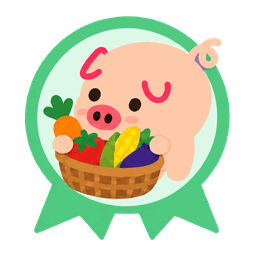
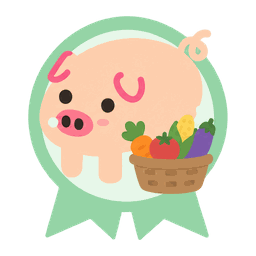
fix(art): 按既有正常小猪站姿重做六枚进阶徽章

diff --git a/packages/pet-core/src/data/art-revisions.js b/packages/pet-core/src/data/art-revisions.js
@@ -7,10 +7,10 @@ export const PIG_ART_REVISIONS = Object.freeze({
   "badge-pig-blindbox-ten": "0c2d076bfd61",
   "badge-pig-clean-ten": "6003eb8595a0",
   "badge-pig-devil": "89cb8d3e629f",
-  "badge-pig-farm-fifteen": "d88e56deb8d9",
+  "badge-pig-farm-fifteen": "eeac7c4729f5",
   "badge-pig-farm-first": "5d1652cb0fe0",
   "badge-pig-farm-five": "deb83c643582",
-  "badge-pig-farm-hundred": "a422ff1a1356",
+  "badge-pig-farm-hundred": "de2e97324258",
   "badge-pig-farm-ten": "0149eff14413",
   "badge-pig-first-class": "12a7524937d8",
   "badge-pig-first-fish": "b61fec5ff7ff",
@@ -18,8 +18,8 @@ export const PIG_ART_REVISIONS = Object.freeze({
   "badge-pig-first-meal": "e5fbc9564601",
   "badge-pig-first-trip": "f8ac4b6899d0",
   "badge-pig-fish-five": "5c35eb850433",
-  "badge-pig-fish-hundred": "7f144268212c",
-  "badge-pig-fish-twenty": "8d5083e971f8",
+  "badge-pig-fish-hundred": "dc81934f7d66",
+  "badge-pig-fish-twenty": "66f23333664a",
   "badge-pig-gacha-first": "a57d94f99dd9",
   "badge-pig-gacha-gold": "4996ffc1006d",
   "badge-pig-gacha-machines": "77f0da6b8e33",
@@ -30,10 +30,10 @@ export const PIG_ART_REVISIONS = Object.freeze({
   "badge-pig-mine-deep": "d94d942494c1",
   "badge-pig-mine-first": "c0ff5e419ad4",
   "badge-pig-mine-fossils": "c5a8a6273d0b",
-  "badge-pig-mine-twenty": "45ecfcd23c9a",
+  "badge-pig-mine-twenty": "a78489d4182f",
   "badge-pig-pet-hundred": "d44a2084eeba",
   "badge-pig-play-twenty": "d1bcbd208fe4",
-  "badge-pig-souvenirs-ten": "dcaa94dcb678",
+  "badge-pig-souvenirs-ten": "0a917947ee38",
   "badge-pig-souvenirs-three": "7ea9125dab52",
   "badge-pig-trips-ten": "7a993658b297",
   "career-astronaut": "9c4f6a1d855d",

diff --git a/client.js b/client.js
@@ -3437,10 +3437,10 @@
     "badge-pig-blindbox-ten": "0c2d076bfd61",
     "badge-pig-clean-ten": "6003eb8595a0",
     "badge-pig-devil": "89cb8d3e629f",
-    "badge-pig-farm-fifteen": "d88e56deb8d9",
+    "badge-pig-farm-fifteen": "eeac7c4729f5",
     "badge-pig-farm-first": "5d1652cb0fe0",
     "badge-pig-farm-five": "deb83c643582",
-    "badge-pig-farm-hundred": "a422ff1a1356",
+    "badge-pig-farm-hundred": "de2e97324258",
     "badge-pig-farm-ten": "0149eff14413",
     "badge-pig-first-class": "12a7524937d8",
     "badge-pig-first-fish": "b61fec5ff7ff",
@@ -3448,8 +3448,8 @@
     "badge-pig-first-meal": "e5fbc9564601",
     "badge-pig-first-trip": "f8ac4b6899d0",
     "badge-pig-fish-five": "5c35eb850433",
-    "badge-pig-fish-hundred": "7f144268212c",
-    "badge-pig-fish-twenty": "8d5083e971f8",
+    "badge-pig-fish-hundred": "dc81934f7d66",
+    "badge-pig-fish-twenty": "66f23333664a",
     "badge-pig-gacha-first": "a57d94f99dd9",
     "badge-pig-gacha-gold": "4996ffc1006d",
     "badge-pig-gacha-machines": "77f0da6b8e33",
@@ -3460,10 +3460,10 @@
     "badge-pig-mine-deep": "d94d942494c1",
     "badge-pig-mine-first": "c0ff5e419ad4",
     "badge-pig-mine-fossils": "c5a8a6273d0b",
-    "badge-pig-mine-twenty": "45ecfcd23c9a",
+    "badge-pig-mine-twenty": "a78489d4182f",
     "badge-pig-pet-hundred": "d44a2084eeba",
     "badge-pig-play-twenty": "d1bcbd208fe4",
-    "badge-pig-souvenirs-ten": "dcaa94dcb678",
+    "badge-pig-souvenirs-ten": "0a917947ee38",
     "badge-pig-souvenirs-three": "7ea9125dab52",
     "badge-pig-trips-ten": "7a993658b297",
     "career-astronaut": "9c4f6a1d855d",

diff --git a/docs/art-prompts/achievements-phase-two.md b/docs/art-prompts/achievements-phase-two.md
@@ -1,36 +1,21 @@
 # 成就第二期徽章来源与导出
 
-内置 image_gen 生成。以项目 assets/pigs/badges/badge-pig-fish-five.png 为角色与画风参考。保持原有圆润横向身体和配色，两只前蹄微抬与书、鱼篓、菜筐和工具接触；后脚沿用原侧身站姿。只调整局部肢体与道具接触，不采用直立长身或道具单独摆放的试稿。非钓鱼主题移除额头鱼饰。Noto Emoji 衍生署名沿用 THIRD-PARTY.md 和 LICENSE-noto-emoji.txt。
+2026-11-02 按用户指定的现有 badge-pig-farm-ten.png 正常小猪徽章重做。保留正常横向身体、头部、耳朵、尾巴和站姿，仅改变六项成就的配色及身旁道具。使用内置 image_gen；此前的拟人姿势稿已替换。
 
-母版 docs/screenshots/achievements-phase-two-badges.png 为1536×1024、3列×2行透明PNG。每格512×512切片后调用 tools/prepare-pig-art.py 的 prepare 导出256×256透明PNG；只做切片、透明噪声处理、等比缩放和调色板压缩，不以程序重画角色。母版/切片/成品哈希、坐标、大小和真实alpha>16边界见 assets/pigs/manifest.json。
+角色与风格参考：assets/pigs/badges/badge-pig-farm-ten.png。Noto Emoji衍生署名沿用THIRD-PARTY.md及LICENSE-noto-emoji.txt。
 
-## 初稿逐字提示词
+母版 docs/screenshots/achievements-phase-two-badges.png 为1536×1024、3列×2行透明PNG。每格512×512切片后调用 tools/prepare-pig-art.py 的 prepare 导出256×256透明PNG。只做切片、透明噪声处理、等比缩放和调色板压缩，不以程序改画角色。母版/切片/成品哈希、切片坐标、大小和真实alpha>16边界见assets/pigs/manifest.json。
 
-```text
-Use case: stylized-concept. Asset type: a single concept review board containing SIX distinct achievement badge designs for the dsh-piggy game, arranged in a precise 3 columns by 2 rows regular grid, no overlaps, generous transparent margins. Reference image is STYLE and CHARACTER IDENTITY reference only, not an edit target. Match its pink pig, tiny dark eyes, oval snout, flat soft pastel fills and minimal shapes; avoid gradients, 3D, lighting, realistic texture and black outlines. The pig is the largest motif in every badge. Each badge has a circular medallion and two short ribbons. Do not draw any text, letters, numbers, logos or watermark.
-Top row left: fish naturalist, lavender medallion, pink pig with a tiny open field guide and two small blue fish. Top row middle: a hundred catches, sky blue medallion, pink pig with a small wooden fishing rod and a fish basket, exactly one pig. Top row right: travel souvenir collector, peach medallion, pink pig with a little mint travel bag and seashell.
-Bottom row left: a hundred harvests, warm yellow medallion, pink pig holding a small crate of carrots. Bottom row middle: crop variety collector, mint medallion, pink pig and a small basket containing carrot, tomato, corn and eggplant in distinct colors. Bottom row right: deepest mine explorer, slate blue medallion, pink pig wearing a miner helmet, holding a small pickaxe beside a violet crystal.
-Keep the same pig identity, medium, composition scale and ribbon proportions throughout. Actual transparent background, transparent spaces between badges. All six badges whole and fully visible. This is ONE concept sheet for review, not final individual game assets.
-```
-
-## 非钓鱼头饰调整
+## 最终逐字提示词
 
 ```text
-Use case: precise-object-edit. Edit the attached SIX-badge review sheet. Remove ONLY the small PURPLE FISH lying across the forehead of the pig in these FOUR badges: top-right travel/souvenir badge, bottom-left carrot harvest badge, bottom-middle vegetable basket badge, bottom-right miner badge (fish partly below helmet). Seamlessly restore the pig forehead or helmet underneath. Preserve the actual ears, pink curled ear strokes, tail and all facial features. The top-left and top-middle fishing badges MUST remain entirely unchanged, including their purple forehead fish. Keep ALL other image content, positions, proportions, badge circles, ribbons, pigs, accessories, colors, soft rendering and background exactly as the input. Do not add text, decorations, new objects or symbols. Preserve existing alpha transparency exactly. It is a surgical removal of four fish only.
-```
-
-## 最终局部前蹄与道具接触调整
-
-```text
-Use case: precise-object-edit. Make a VERY LOCAL correction to the six-badge sheet. This original image's faces, colors, accessories, badge circles, ribbons, overall silhouette, body shape and composition are approved. KEEP THEM UNCHANGED.
-The pig body must remain the original low rounded HORIZONTAL side-facing body with snout at left and rump/tail at right. Do not elongate it vertically, do not add a second torso, do not rotate it, do not add a second tail. No human upright pose. No red shoes.
-Change ONLY the small foreleg shapes around the thematic accessories:
-- Book pig: the two FRONT hooves should peek out at the two book edges as short subtly lifted forelegs attached to the chest at the left/front of the existing horizontal body. Remove the misplaced dangling front-leg stump below the book. Preserve the existing rear feet at right/back in their normal side-view stance.
-- Fishing pig: one small forehoof touches the rod handle, the other rests lightly on the fish basket rim; raised only a little. Remove misplaced dangling front-leg shapes below those props. Keep rump and normal rear legs unchanged.
-- Travel pig: one front hoof lightly rests on the travel bag and the other near the seashell, a small natural interaction, body unchanged.
-- Carrot crate pig: two tiny forehooves rest on the crate's left/right top sides, not human hands. Remove any forelegs dangling below the crate; preserve the rear feet behind/right of it.
-- Vegetable basket pig: two short subtly raised front hooves rest on the basket rim, body and rear legs unchanged.
-- Miner pig: one short front hoof contacts the pickaxe HANDLE, the other lightly rests on the crystal. Keep the handle visibly WOODEN and distinct from peach limbs. Preserve the two rear legs and the original body.
-Think of a normally horizontal four-legged pig lifting ONLY its two front feet slightly to engage with an item, while the back feet remain normally standing. NOT rearing its whole body, NOT sitting like a human, NOT four planted legs with a disconnected prop pasted nearby. No extra limbs. The two front hooves can be partly hidden by props; do not make them large.
-Do not add fish on the non-fishing pigs. Do not add any head ornament. Keep all other pixels/design elements as close as possible to the original. Real transparent background outside badges, equal 3 by 2 grid.
+Create ONE production sprite sheet, exactly 3 columns by 2 rows, of six simple flat achievement badges based DIRECTLY on the attached badge. Treat the attached pig as LOCKED approved artwork: keep its exact original normal horizontal side-view body, head position, ears, eyes, snout, three visible short standing legs (the fourth is occluded), leg placement, curled tail, proportions and peach/pink colors. Reuse that same normal pig in every badge. Keep the same simple circular medallion and two short ribbons. Solid flat fills only, no gradients, no lighting, no shading, no texture, no outlines. Pig remains dominant. Small props sit BESIDE the pig at lower right as in the reference fruit basket. Do not lift any legs, do not make arms or hands, do not make it hold anything, do not alter or reinterpret its anatomy. No forehead ornaments.
+Only change the badge color and small side props for each achievement:
+Top-left: lavender badge, a small open fish field guide and one small blue fish at lower right.
+Top-middle: pale blue badge, a small fish basket containing two blue fish and a short fishing rod leaning at lower right.
+Top-right: pale peach badge, a small mint suitcase and seashell at lower right.
+Bottom-left: pale yellow badge, a small wooden crate with carrots at lower right.
+Bottom-middle: mint green badge, a small basket of carrot, tomato, corn and eggplant at lower right.
+Bottom-right: slate blue badge, small pickaxe and one purple crystal at lower right. No helmet is needed; keep the pig identical.
+The normal pig itself must look exactly like the reference in all six. These are small 256px game icons; use few clean simple shapes for props matching the reference. No text or numerals. Whole badge silhouettes fully visible, equal size, centered in equal square cells with ample transparent margins. Fully transparent alpha=0 outside badges and in gutters, no glow or shadow.
 ```

diff --git a/assets/pigs/PROVENANCE.md b/assets/pigs/PROVENANCE.md
@@ -2,7 +2,7 @@
 
 ## 成就第二期（2026-11-01）
 
-新增六枚独立徽章，未替换原有图案。内置 image_gen 生成，按用户反馈修正非钓鱼额头装饰和肢体；从修正版母版切片，沿用 tools/prepare-pig-art.py 的 prepare 导出256×256透明PNG。逐字提示词、采用轮次和导出方法见 docs/art-prompts/achievements-phase-two.md；源图/成品哈希、切片坐标和真实透明边界见 manifest.json。项目现有Noto Emoji衍生署名继续适用。
+新增六枚独立徽章，未替换原有图案。2026-11-02 用内置 image_gen 沿用 badge-pig-farm-ten.png 的正常小猪身体与四肢站姿，变更徽章颜色和身旁道具；从新母版切片，沿用 tools/prepare-pig-art.py 的 prepare 导出256×256透明PNG。逐字提示词、采用轮次和导出方法见 docs/art-prompts/achievements-phase-two.md；源图/成品哈希、切片坐标和真实透明边界见 manifest.json。项目现有Noto Emoji衍生署名继续适用。
 
 2026-10-13 由旧版 1:1 重画，当前只有一套无描边平涂，原有181张，另追加下文两张用户审定微动作。全部使用内置 image_gen 生成/编辑并经审图选定；角色、脸型、比例、姿势、服饰与道具沿用旧版，不以程序删除轮廓线。
 

diff --git a/docs/design/achievements-phase-two.md b/docs/design/achievements-phase-two.md
@@ -36,7 +36,7 @@
 
 ## 徽章审稿
 
-六枚独立透明 PNG 的总览见 [徽章图](../screenshots/achievements-phase-two-badges.png)，顺序对应上表。保持原有横向身体和侧身朝向，两只前蹄微抬并与主题道具接触，后脚正常支撑。逐字提示词与导出方法见 [素材记录](../art-prompts/achievements-phase-two.md)，哈希、切片位置、透明边界和大小登记在 assets/pigs/manifest.json。
+六枚独立透明 PNG 的总览见 [徽章图](../screenshots/achievements-phase-two-badges.png)，顺序对应上表。沿用用户指定的原有正常小猪徽章画法，身体与四肢站姿保持，道具位于身旁。逐字提示词与导出方法见 [素材记录](../art-prompts/achievements-phase-two.md)，哈希、切片位置、透明边界和大小登记在 assets/pigs/manifest.json。
 
 新图进入 assets/pigs/badges/，不借用旧徽章，也不替换原有图案。只增加静态素材与数据表，游戏和扩展版本均保持，尚未创建发行或发布 npm。
 

diff --git a/docs/ROADMAP.md b/docs/ROADMAP.md
@@ -3,7 +3,7 @@
 ## 2026-11-01 成就第二期（待合并）
 
 - 新增六项成就，复用鱼类/纪念品图鉴、鱼获累计、菜园收获事件和矿洞最高层数；最多展示 34 项。具体条件、兼容边界及隔离试玩见 [设计说明](design/achievements-phase-two.md)。
-- 用户已要求整理打包并提交 PR；游戏及扩展版本不变，不创建发行或发布 npm。徽章按审图反馈修正非钓鱼头饰与肢体，道具和脚的轮廓分别检查后纳入。
+- 用户已要求整理打包并提交 PR；游戏及扩展版本不变，不创建发行或发布 npm。PR #38 已转回草稿；2026-11-02 按用户指定的现有正常小猪徽章画法替换六张新图，只改主题配色与身旁道具。
 
 ## 2026-11-01 RC6 菜园目录渠道状态（当前）
 
